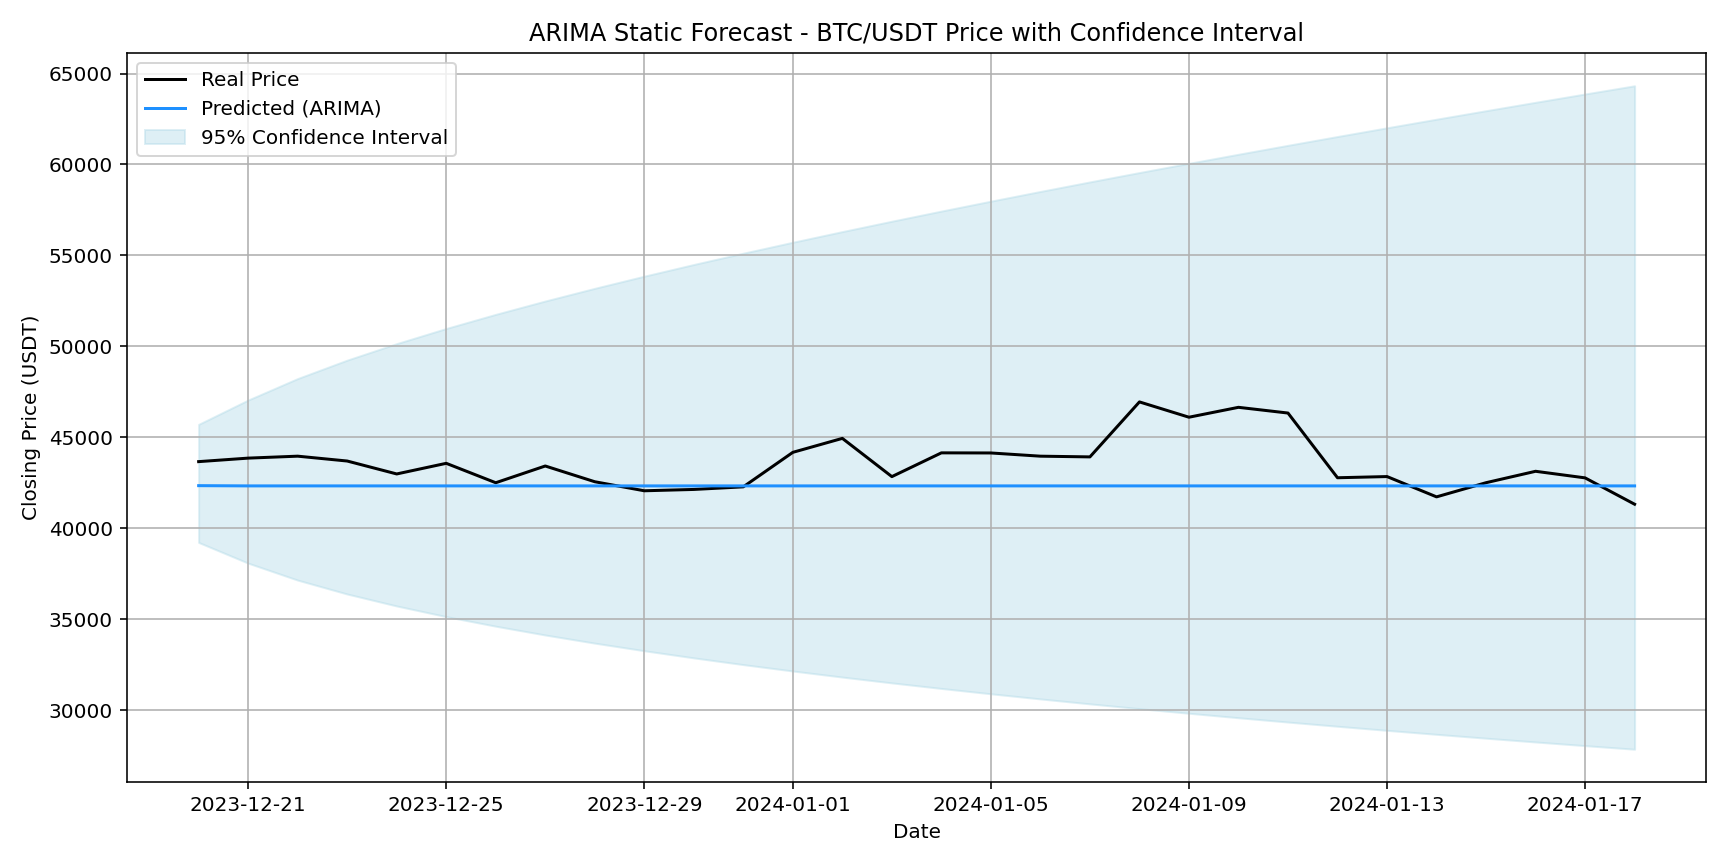
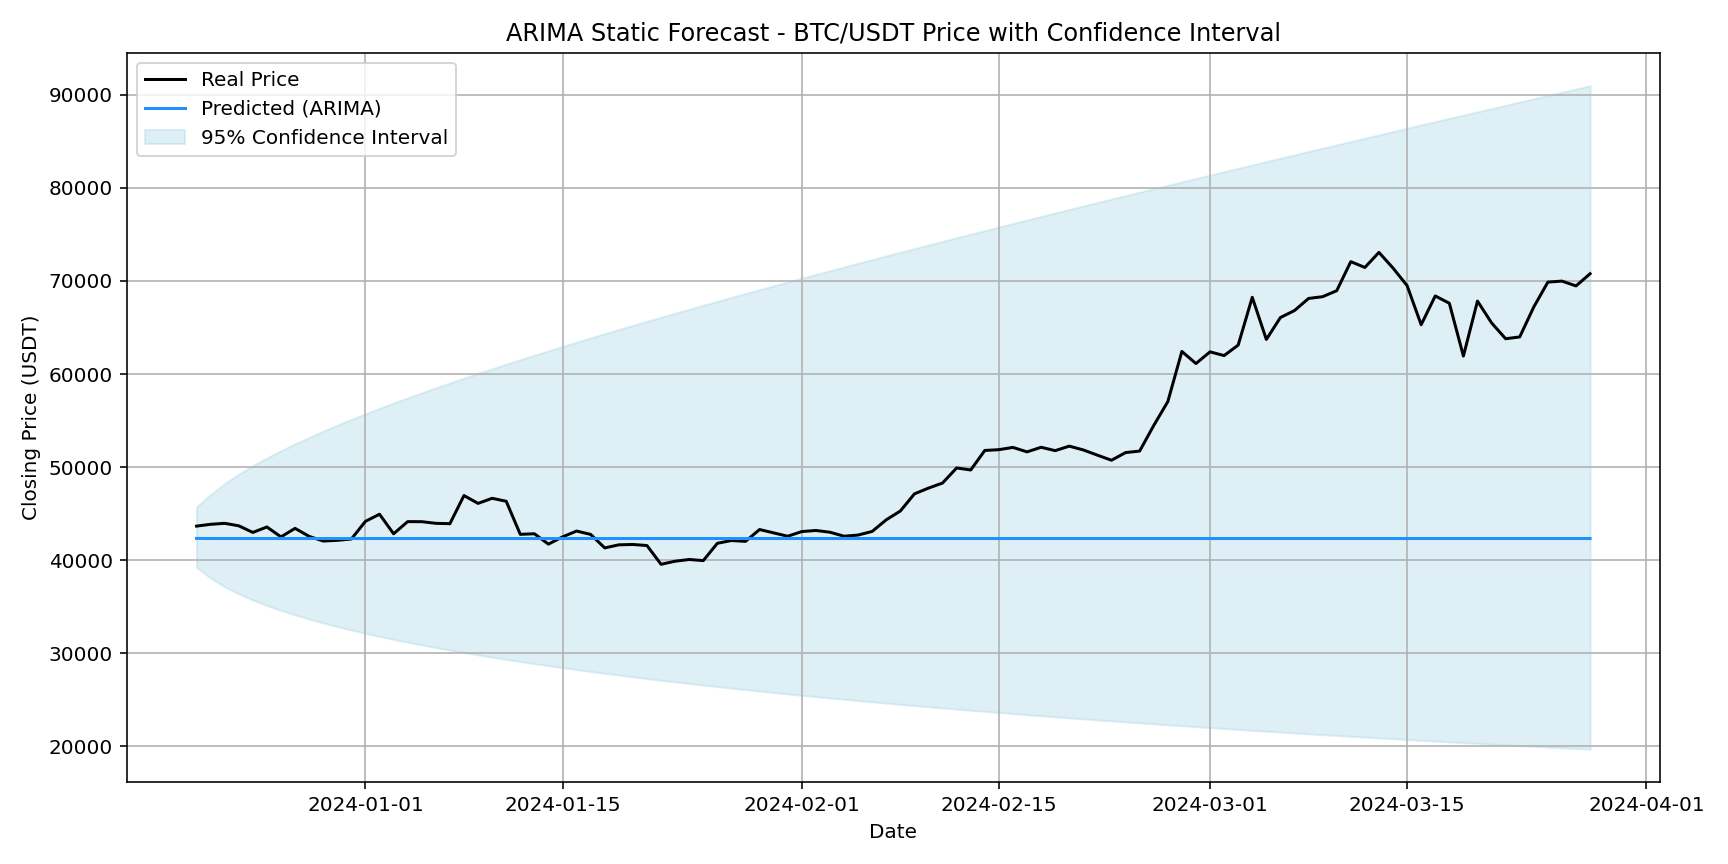
Refactor ARIMA Static evaluation and update results df

diff --git a/scripts/arima.py b/scripts/arima.py
@@ -323,15 +323,20 @@ def reconstruct_prices_from_log_close(forecast_df, last_price):
 
 
 # Computes and returns MAPE, RMSE, and R² for evaluating prediction accuracy.
-def evaluate_model(y_true, y_pred):
+def evaluate_model(y_true, y_pred, column_name):
     """
     Computes MAPE, RMSE, and R² for model evaluation.
+    
     """
     mape = mean_absolute_percentage_error(y_true, y_pred) * 100
     rmse = np.sqrt(mean_squared_error(y_true, y_pred))
     r2 = r2_score(y_true, y_pred)
-
-    print(f"\n📊 Model Evaluation:")
+    
+    # Create a pd Series with the rsults
+    metrics_series = pd.Series([mape, rmse, r2], index=["MAPE", "RMSE", "R²"], name=column_name)
+    results_df[column_name] = metrics_series
+    
+    print("\n📊 Model Evaluation:")
     print(f"MAPE: {mape:.2f}%")
     print(f"RMSE: {rmse:.2f}")
     print(f"R²: {r2:.4f}")
@@ -420,6 +425,7 @@ def validate_jarque_bera(residuals):
 # --- Step 1: Load and prepare dataset ---
 df = load_and_prepare("data/raw/btcusdt_1d.csv")
 
+results_df = pd.DataFrame(index=["MAPE", "RMSE", "R²"])
 
 #%% --- Step 2: Stationarity test on log(close) ---
 adf_test(df['log_close'], 'log(price)')
@@ -457,12 +463,13 @@ with open("results/ARIMA/arima_model_summary.txt", "w") as f:
 
 #%% --- Step 8: Static forecast (single fit on full test set) ---
 forecast_static_model_df = static_arima_forecast(model, df_test,
-                                                 n_periods=30)
+                                                 n_periods=100)
 
 
 #%% --- Step 9: Evaluate static forecast (MAPE, RMSE, R²) ---
 evaluate_model(forecast_static_model_df['real_price'], 
-               forecast_static_model_df['predicted_price'])
+               forecast_static_model_df['predicted_price'],
+               column_name='ARIMA Static')
 
 
 #%% --- Step 10: Plot forecast vs actual (static model) ---
